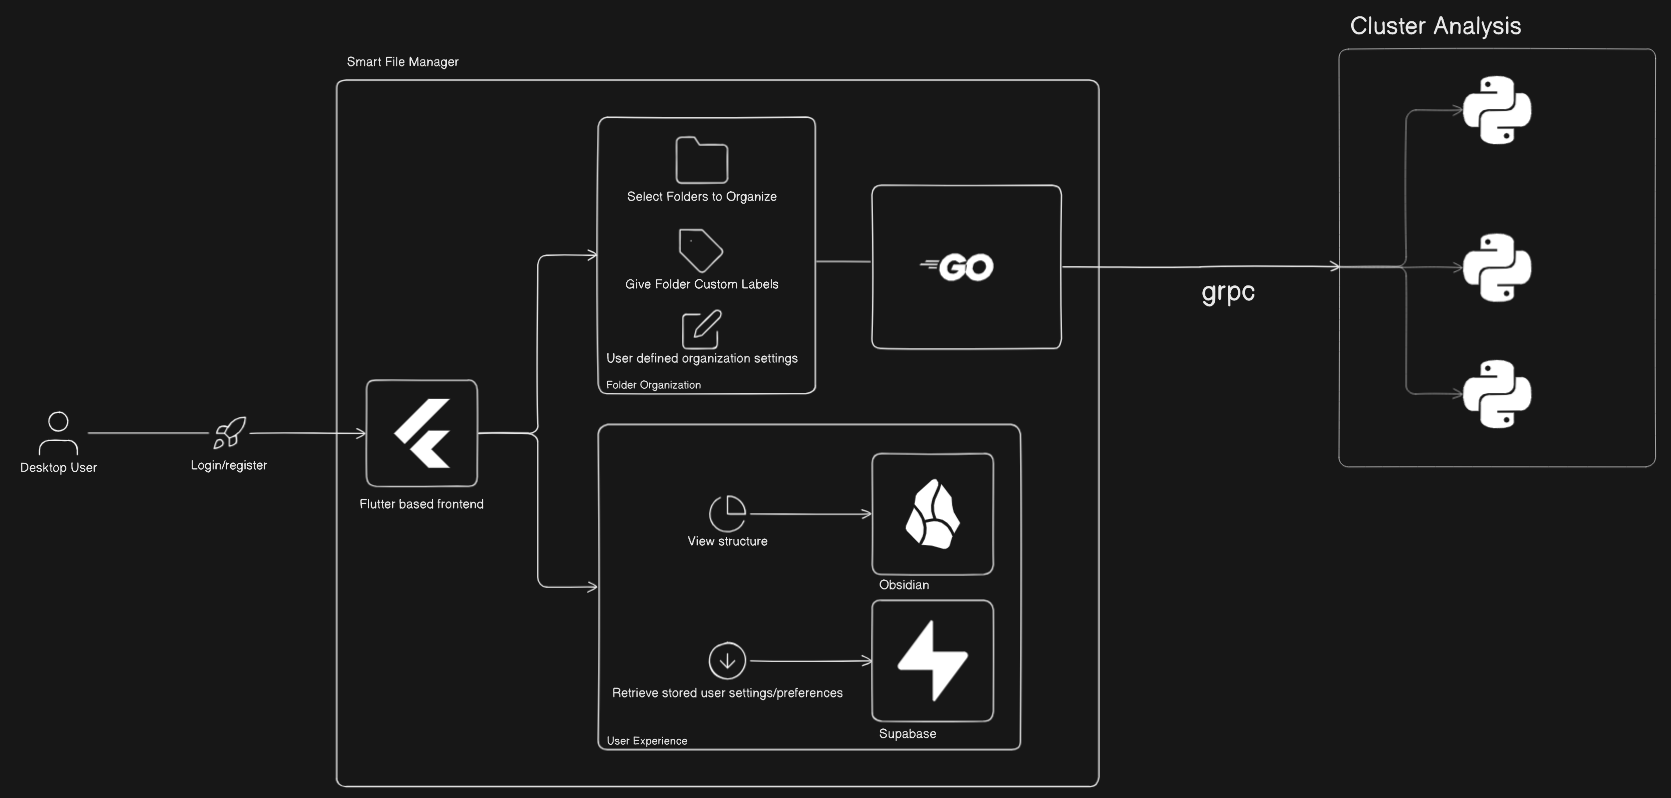
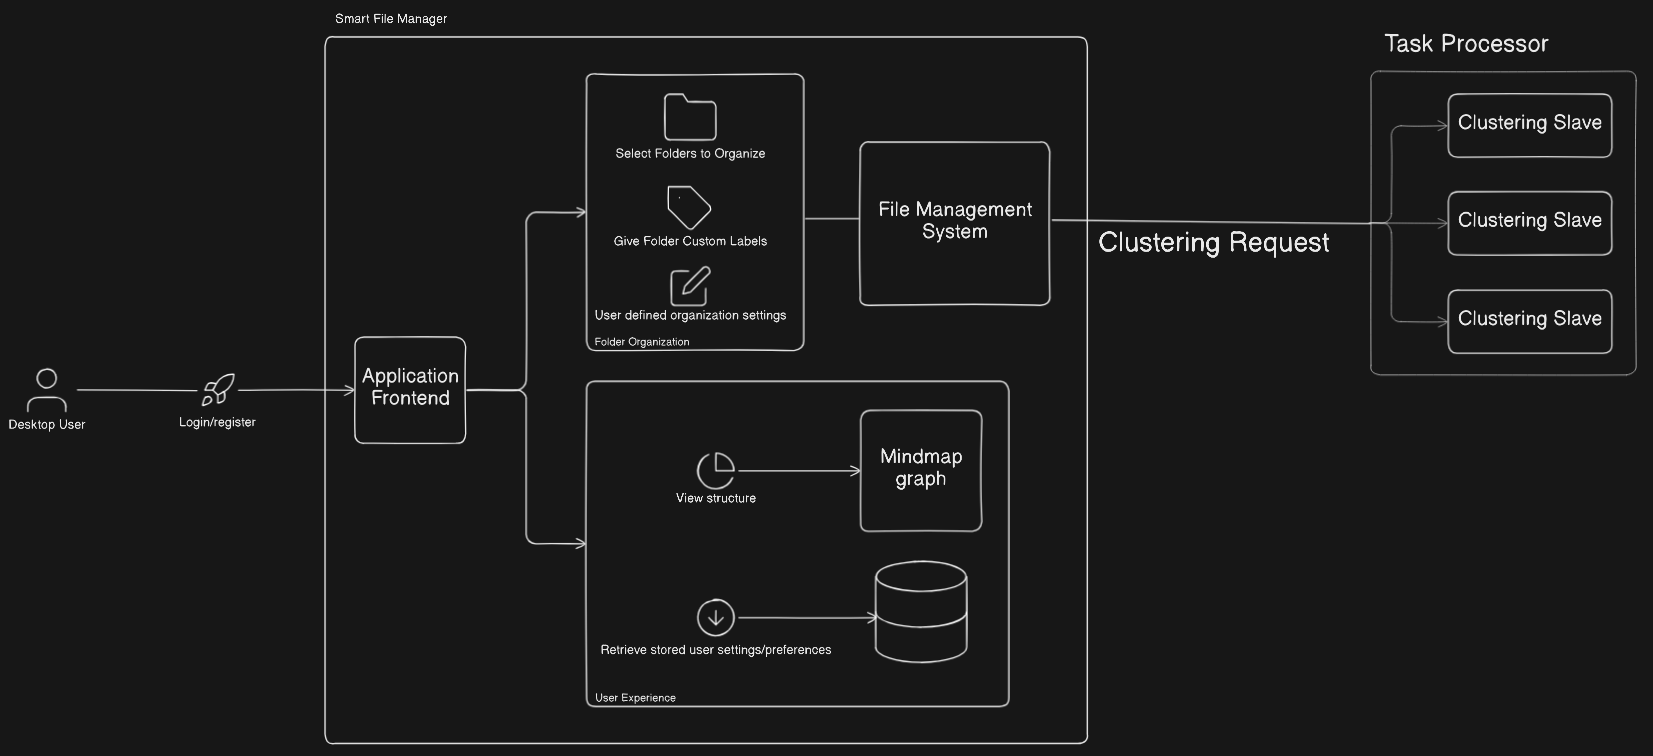
Updated architecture.md and architecure diagrams

diff --git a/Documentation/Architecture.md b/Documentation/Architecture.md
@@ -16,11 +16,6 @@
     * [Website](#website)
     * [Application](#application)
 * [Sub-architectural patterns](#sub-architectural-patterns)
-* [Data storage](#data-storage)
-* [Security](#security)
-* [Scalability and Performance](#scalability-and-performance)
-* [Deployment](#deployment)
-
 
 ## Overview
 <p>The smart file manager is designed with modular and scalable components for optimal performance and maintainability. This document outlines the architectural design, how components interact, and the system flow.</p>
@@ -29,12 +24,12 @@
 ![Application architecture](assets/applicationArchitecture.png)
 
 ## Architecture Style
-<p>Smart file manager makes use of Client-Server architecture for the website. The application uses a Modular Monolithic structure and a Master-Slave between the API and AI.
+<p>Smart file manager makes use of Client-Server architecture for the website. The application uses a Modular Monolithic structure and a Master-Slave between the Request Handler and Task Processor.
 </p>
 
 1. Client server to allow users to communicate with the server and perform operations (downloading, profile edits etc.).
 2. Monolithic structure such that the entire application is deployed as a single unit. Within the single unit, concerns are separated into independant layers.
-3. The API (master) layer will communicate with, and manage the python threads (slaves).
+3. The Request Handler will communicate with the Task Processor to manage multiple instances.
 
 ## System Components
 ### Website
@@ -53,14 +48,3 @@
     1. Presentation
     2. Application
     3. Data 
-
-### Event-Driven Architecture
-1. 
-
-## Data Storage
-
-## Security
-
-## Scalability and Performance
-
-## Deployment
